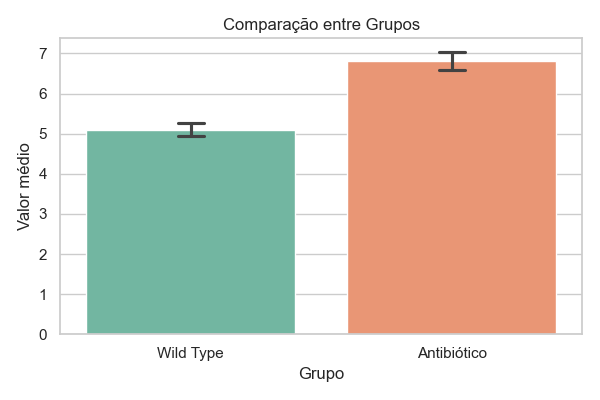
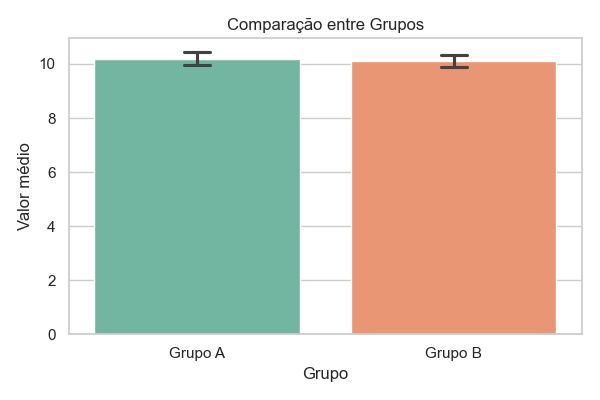
Changed example file

diff --git a/output/relatorio.html b/output/relatorio.html
@@ -15,8 +15,8 @@
 </head>
 <body>
     <h1>Relatório Experimental</h1>
-    <p><strong>Data:</strong> 27/05/2025</p>
-    <p><strong>Descrição:</strong> Análise estatística de duas condições experimentais (Antibiótico vs Wild Type)</p>
+    <p><strong>Data:</strong> 28/05/2025</p>
+    <p><strong>Descrição:</strong> Análise estatística de duas condições experimentais (Grupo A vs Grupo B)</p>
 
     <h2>Resumo Estatístico</h2>
     <table>
@@ -28,16 +28,16 @@
         </tr>
         
         <tr>
-            <td>Antibiótico</td>
-            <td>6.80</td>
+            <td>Grupo A</td>
+            <td>10.20</td>
             <td>0.22</td>
             <td>5</td>
         </tr>
         
         <tr>
-            <td>Wild Type</td>
-            <td>5.10</td>
-            <td>0.16</td>
+            <td>Grupo B</td>
+            <td>10.10</td>
+            <td>0.22</td>
             <td>5</td>
         </tr>
         
@@ -45,15 +45,15 @@
 
     <h2>Resultado do Teste Estatístico</h2>
     <p>Foi realizado um teste t de Student para amostras independentes.</p>
-    <p>Valor de <em>p</em>: <strong>0.0000</strong> — <span style="color: green;">diferença significativa</span></p>
+    <p>Valor de <em>p</em>: <strong>0.4996</strong> — <span style="color: red;">sem diferença significativa</span></p>
 
     <h2>Gráfico</h2>
[2 lines of base64/hex data omitted]
 
     <h2>Interpretação</h2>
-    <p>O grupo <strong>Antibiótico</strong> apresentou maior média do que o grupo <strong>Wild Type</strong>.</p>
+    <p>O grupo <strong>Grupo A</strong> apresentou maior média do que o grupo <strong>Grupo B</strong>.</p>
     
-    <p>Como o valor de <em>p</em> foi menor que 0.05, consideramos essa diferença estatisticamente significativa.</p>
+    <p>Essa diferença não foi estatisticamente significativa (p &ge; 0.05), portanto pode ter ocorrido por acaso.</p>
     
 </body>
 </html>

diff --git a/README.md b/README.md
@@ -2,6 +2,8 @@
 
 Este é um gerador automatizado de relatórios estatísticos a partir de arquivos CSV com dois grupos experimentais. Ele realiza análise descritiva, teste t de Student, gera gráficos comparativos e cria um relatório completo em **PDF** e **HTML** com layout profissional.
 
+⚠ Esta é uma versão beta. Use por sua conta e risco. **Feedbacks são bem-vindos!**
+
 ---
 
 ## 🧪 Para que serve?
